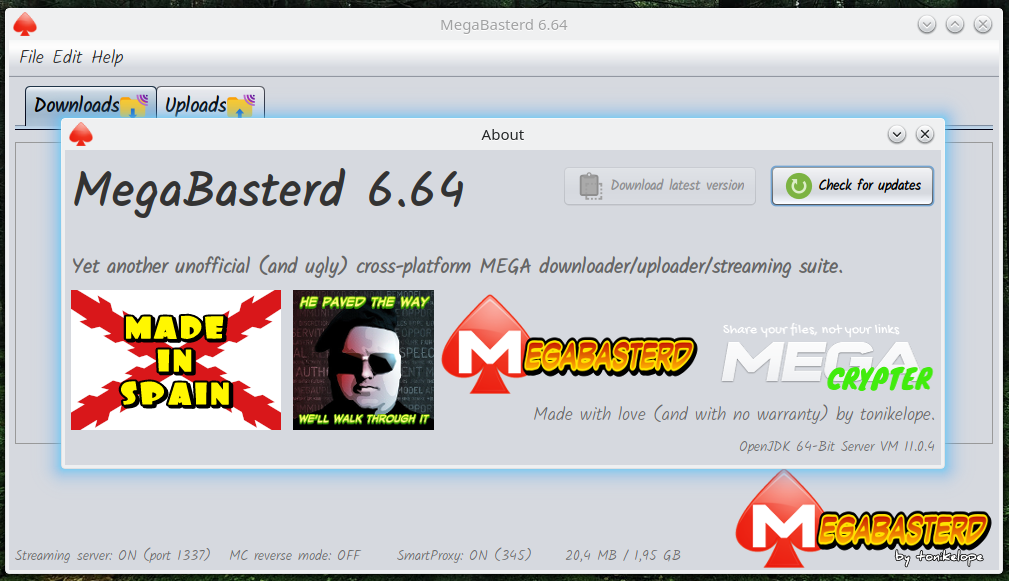
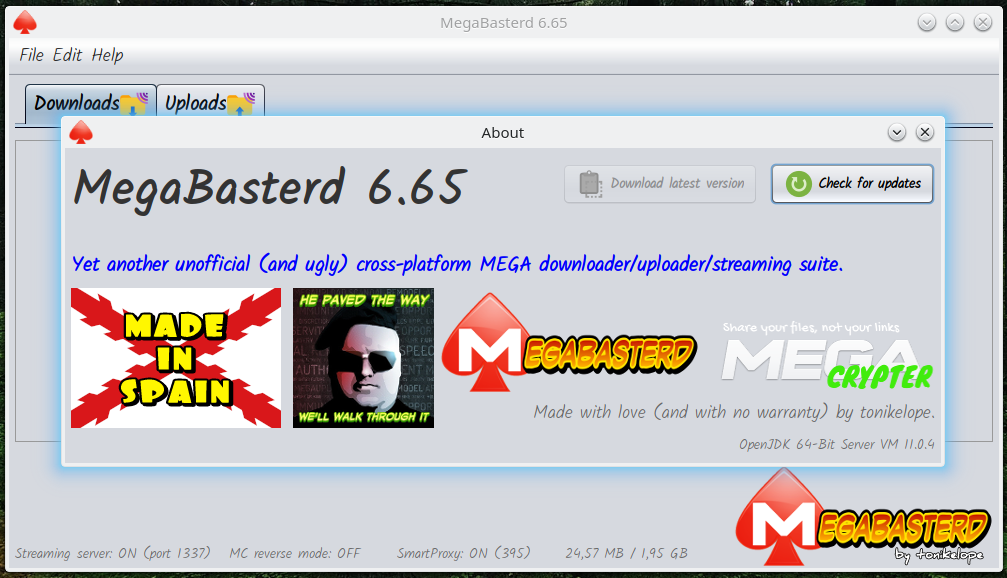
6.65
-Stop chunkdownloader on 503 error
-Slot status label simp

diff --git a/src/main/java/com/tonikelope/megabasterd/UploadView.java b/src/main/java/com/tonikelope/megabasterd/UploadView.java
@@ -225,7 +225,7 @@ public class UploadView extends javax.swing.JPanel implements TransferenceView {
         file_size_label.setText("---");
         file_size_label.setDoubleBuffered(true);
 
-        slot_status_label.setFont(new java.awt.Font("Dialog", 1, 14)); // NOI18N
+        slot_status_label.setFont(new java.awt.Font("Dialog", 1, 16)); // NOI18N
         slot_status_label.setHorizontalAlignment(javax.swing.SwingConstants.RIGHT);
         slot_status_label.setDoubleBuffered(true);
 
@@ -569,21 +569,14 @@ public class UploadView extends javax.swing.JPanel implements TransferenceView {
 
         synchronized (_upload.getWorkers_lock()) {
 
-            int conta_exit = 0;
-
-            conta_exit = _upload.getChunkworkers().stream().filter((c) -> (c.isExit())).map((_item) -> 1).reduce(conta_exit, Integer::sum);
-
             int conta_error = 0;
 
             conta_error = _upload.getChunkworkers().stream().filter((c) -> (c.isError_wait())).map((_item) -> 1).reduce(conta_error, Integer::sum);
 
-            final Color status_color = conta_error > 0 ? Color.red : Color.black;
-
-            final String status = (conta_exit > 0 ? "Tot removing: " + conta_exit : "") + (conta_error > 0 ? ((conta_exit > 0 ? " / " : "") + "Tot error: " + conta_error) : "");
-
+            final String status = conta_error > 0 ? "(" + String.valueOf(conta_error) + ")" : "";
             swingInvoke(() -> {
-                slot_status_label.setForeground(status_color);
-                slot_status_label.setText(LabelTranslatorSingleton.getInstance().translate(status));
+                slot_status_label.setForeground(Color.RED);
+                slot_status_label.setText(status);
             });
         }
     }

diff --git a/src/main/java/com/tonikelope/megabasterd/DownloadView.java b/src/main/java/com/tonikelope/megabasterd/DownloadView.java
@@ -268,7 +268,7 @@ public class DownloadView extends javax.swing.JPanel implements TransferenceView
             }
         });
 
-        slot_status_label.setFont(new java.awt.Font("Dialog", 1, 14)); // NOI18N
+        slot_status_label.setFont(new java.awt.Font("Dialog", 1, 16)); // NOI18N
         slot_status_label.setHorizontalAlignment(javax.swing.SwingConstants.RIGHT);
         slot_status_label.setDoubleBuffered(true);
 
@@ -565,21 +565,15 @@ public class DownloadView extends javax.swing.JPanel implements TransferenceView
 
         synchronized (_download.getWorkers_lock()) {
 
-            int conta_exit = 0;
-
-            conta_exit = _download.getChunkworkers().stream().filter((c) -> (c.isExit())).map((_item) -> 1).reduce(conta_exit, Integer::sum);
-
             int conta_error = 0;
 
             conta_error = _download.getChunkworkers().stream().filter((c) -> (c.isError_wait())).map((_item) -> 1).reduce(conta_error, Integer::sum);
 
-            final Color status_color = conta_error > 0 ? Color.red : Color.black;
-
-            final String status = (conta_exit > 0 ? "Tot removing: " + conta_exit : "") + (conta_error > 0 ? ((conta_exit > 0 ? " / " : "") + "Tot error: " + conta_error) : "");
+            final String status = conta_error > 0 ? "(" + String.valueOf(conta_error) + ")" : "";
 
             swingInvoke(() -> {
-                slot_status_label.setForeground(status_color);
-                slot_status_label.setText(LabelTranslatorSingleton.getInstance().translate(status));
+                slot_status_label.setForeground(Color.RED);
+                slot_status_label.setText(status);
             });
         }
     }

diff --git a/src/main/java/com/tonikelope/megabasterd/MainPanel.java b/src/main/java/com/tonikelope/megabasterd/MainPanel.java
@@ -53,7 +53,7 @@ import javax.swing.UIManager;
  */
 public final class MainPanel {
 
-    public static final String VERSION = "6.64";
+    public static final String VERSION = "6.65";
     public static final int THROTTLE_SLICE_SIZE = 16 * 1024;
     public static final int DEFAULT_BYTE_BUFFER_SIZE = 16 * 1024;
     public static final int STREAMER_PORT = 1337;
@@ -822,22 +822,6 @@ public final class MainPanel {
                 exit = false;
             }
 
-        } else if (!getUpload_manager().getFinishing_uploads_queue().isEmpty()) {
-
-            Object[] options = {"No",
-                LabelTranslatorSingleton.getInstance().translate("Yes")};
-
-            int n = showOptionDialog(getView(),
-                    LabelTranslatorSingleton.getInstance().translate("It seems MegaBasterd is just finishing uploading some files.\n\nIF YOU EXIT NOW, THOSE UPLOADS WILL FAIL.\n\nDo you want to continue?"),
-                    LabelTranslatorSingleton.getInstance().translate("Warning!"), YES_NO_CANCEL_OPTION, WARNING_MESSAGE,
-                    null,
-                    options,
-                    options[0]);
-
-            if (n == 0) {
-
-                exit = false;
-            }
         }
 
         return exit;

diff --git a/src/main/java/com/tonikelope/megabasterd/ChunkDownloader.java b/src/main/java/com/tonikelope/megabasterd/ChunkDownloader.java
@@ -383,7 +383,7 @@ public class ChunkDownloader implements Runnable, SecureSingleThreadNotifiable {
                             _download.getProgress_meter().secureNotify();
                         }
 
-                        if (!_exit && !_download.isStopped() && !timeout && (http_error != 509 || _current_smart_proxy != null) && http_error != 403) {
+                        if (!_exit && !_download.isStopped() && !timeout && (http_error != 509 || _current_smart_proxy != null) && http_error != 403 && http_error != 503) {
 
                             _error_wait = true;
 
@@ -397,6 +397,9 @@ public class ChunkDownloader implements Runnable, SecureSingleThreadNotifiable {
                             _error_wait = false;
 
                             _download.getView().updateSlotsStatus();
+
+                        } else if (http_error == 503 && _current_smart_proxy == null) {
+                            setExit(true);
                         }
                     }
 

diff --git a/src/main/java/com/tonikelope/megabasterd/UploadManager.java b/src/main/java/com/tonikelope/megabasterd/UploadManager.java
@@ -16,24 +16,17 @@ public class UploadManager extends TransferenceManager {
 
     private static final Logger LOG = Logger.getLogger(UploadManager.class.getName());
 
-    private final ConcurrentLinkedQueue<Upload> _finishing_uploads_queue;
-
     private final Object _log_file_lock;
 
     public UploadManager(MainPanel main_panel) {
 
         super(main_panel, main_panel.getMax_ul(), main_panel.getView().getStatus_up_label(), main_panel.getView().getjPanel_scroll_up(), main_panel.getView().getClose_all_finished_up_button(), main_panel.getView().getPause_all_up_button(), main_panel.getView().getClean_all_up_menu());
-        _finishing_uploads_queue = new ConcurrentLinkedQueue<>();
 
         _log_file_lock = new Object();
     }
 
     public Object getLog_file_lock() {
         return _log_file_lock;
-    }
-
-    public ConcurrentLinkedQueue<Upload> getFinishing_uploads_queue() {
-        return _finishing_uploads_queue;
     }
 
     @Override

diff --git a/src/main/java/com/tonikelope/megabasterd/UploadMACGenerator.java b/src/main/java/com/tonikelope/megabasterd/UploadMACGenerator.java
@@ -214,8 +214,6 @@ public class UploadMACGenerator implements Runnable, SecureSingleThreadNotifiabl
                 secureWait();
             }
 
-            _upload.getMain_panel().getUpload_manager().getFinishing_uploads_queue().add(_upload);
-
             _upload.secureNotify();
 
             LOG.log(Level.INFO, "{0} MAC GENERATOR {1} BYE BYE...", new Object[]{Thread.currentThread().getName(), getUpload().getFile_name()});

diff --git a/src/main/java/com/tonikelope/megabasterd/Upload.java b/src/main/java/com/tonikelope/megabasterd/Upload.java
@@ -1000,8 +1000,6 @@ public class Upload implements Transference, Runnable, SecureSingleThreadNotifia
             });
         }
 
-        getMain_panel().getUpload_manager().getFinishing_uploads_queue().remove(this);
-
         LOG.log(Level.INFO, "{0} Uploader {1} BYE BYE", new Object[]{Thread.currentThread().getName(), this.getFile_name()});
     }
 
